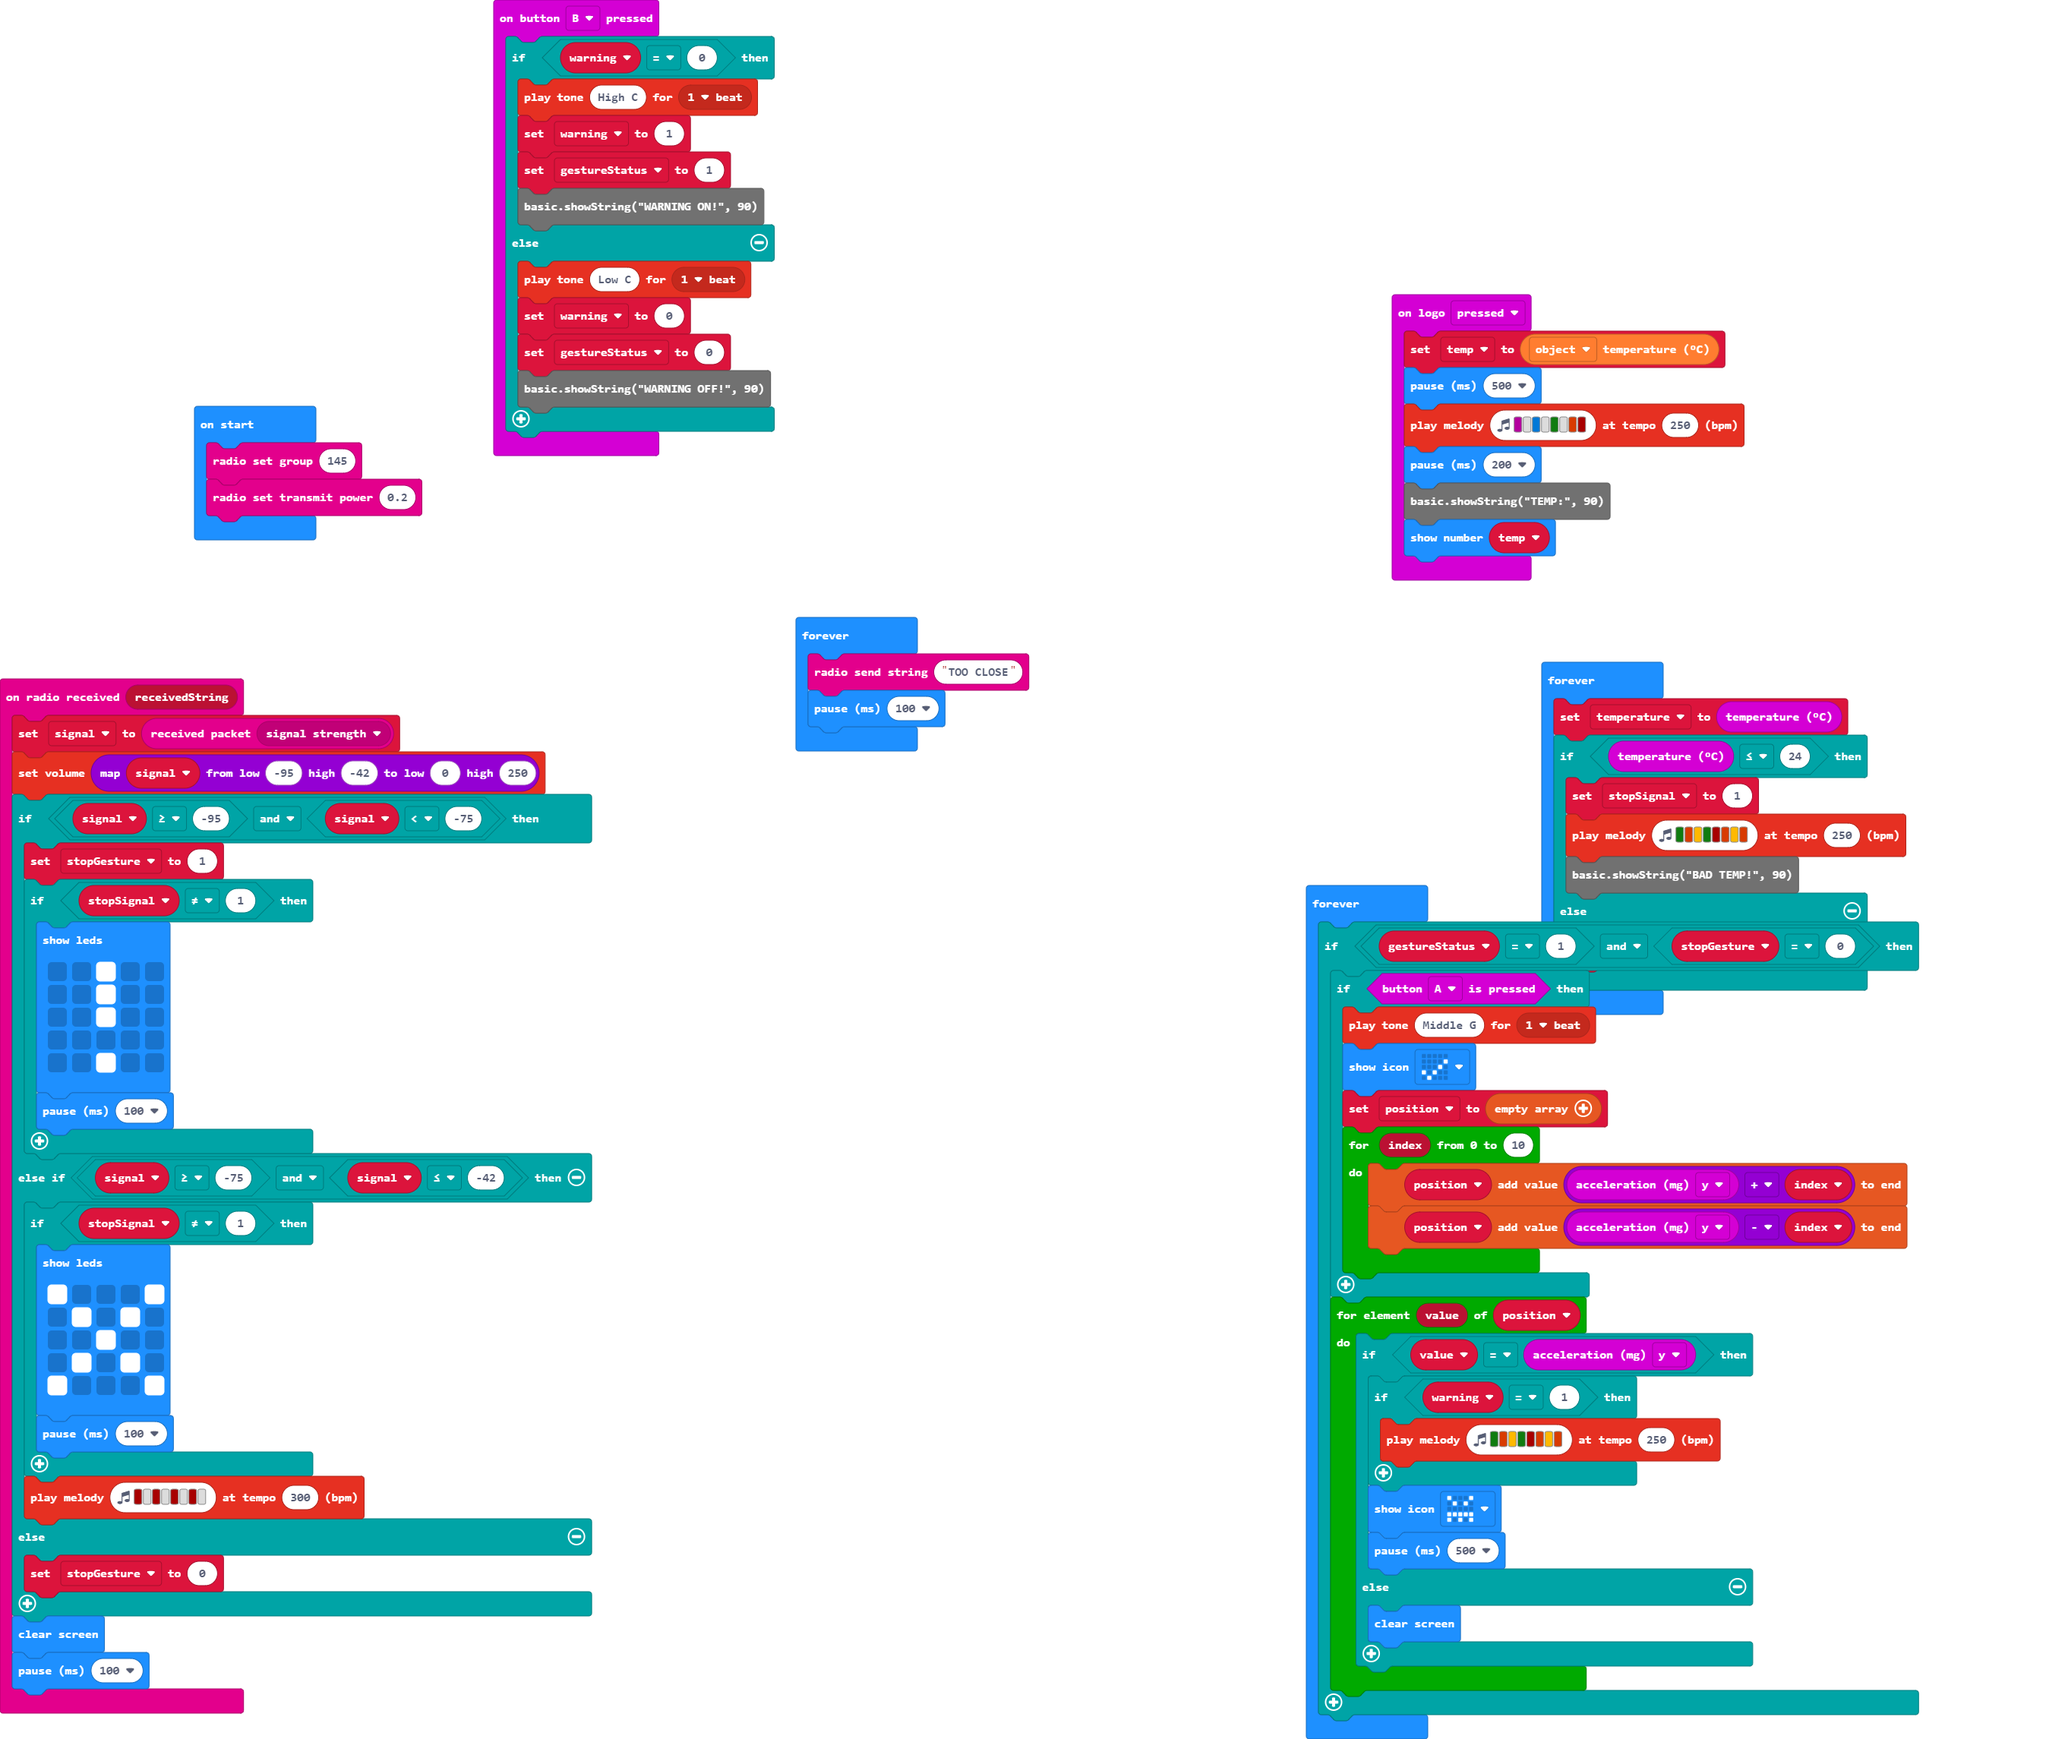
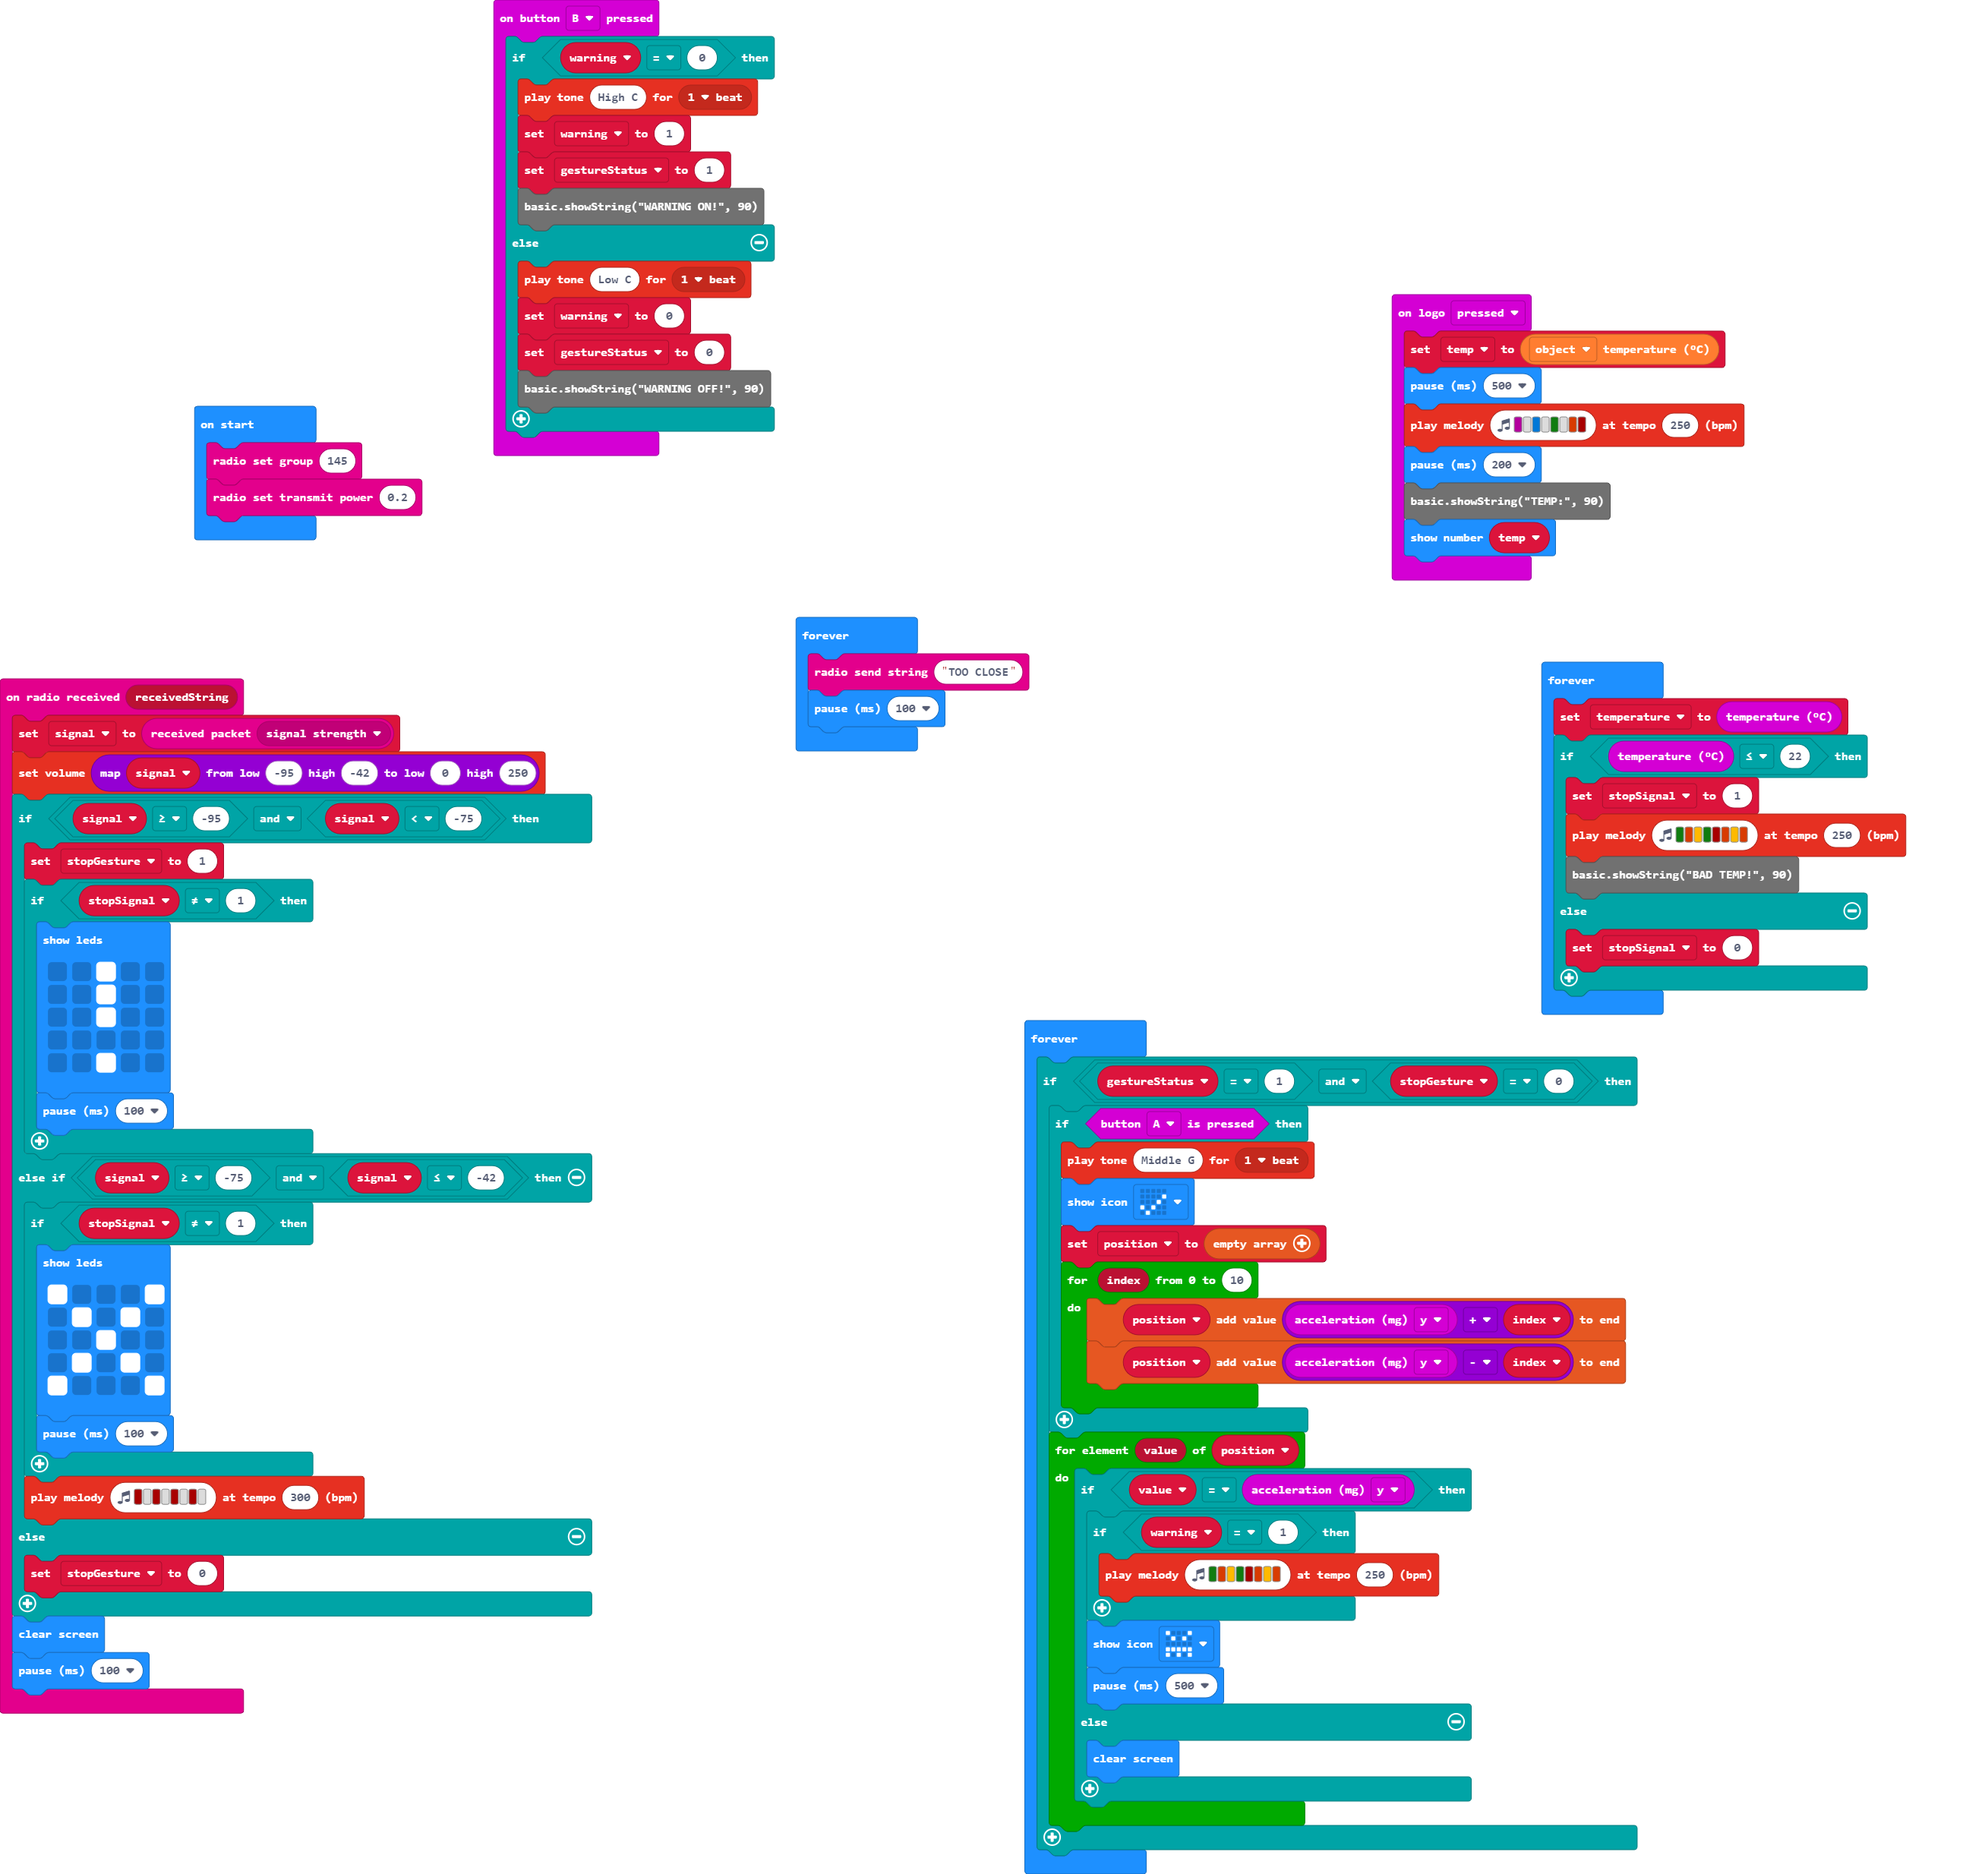
change to 22

diff --git a/main.ts b/main.ts
@@ -68,7 +68,7 @@ basic.forever(function () {
 })
 basic.forever(function () {
     temperature = input.temperature()
-    if (input.temperature() <= 24) {
+    if (input.temperature() <= 22) {
         stopSignal = 1
         music.playMelody("G B A G C5 B A B ", 250)
         basic.showString("BAD TEMP!", 90)
